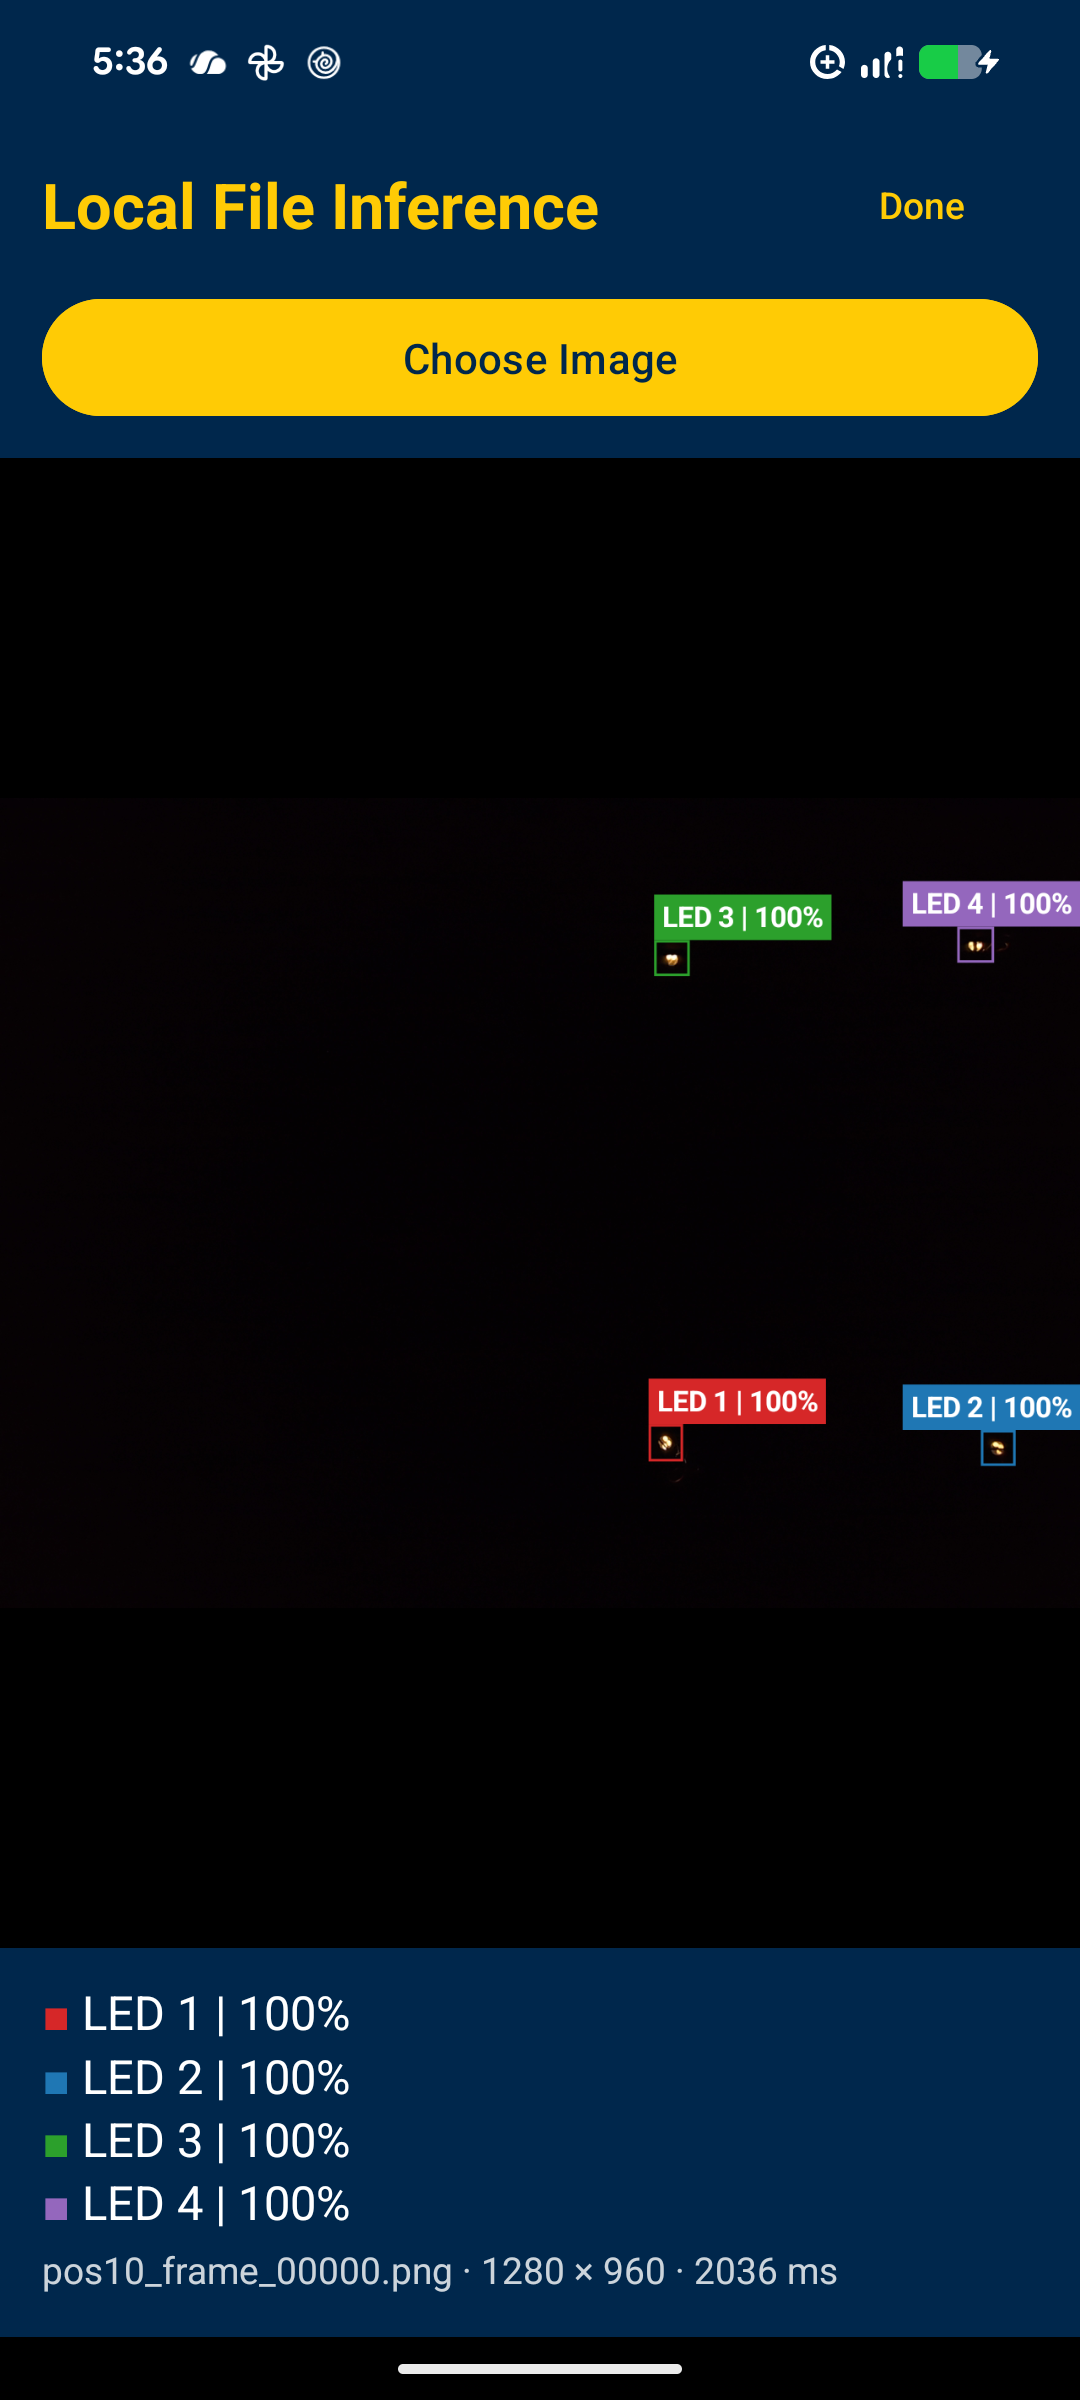
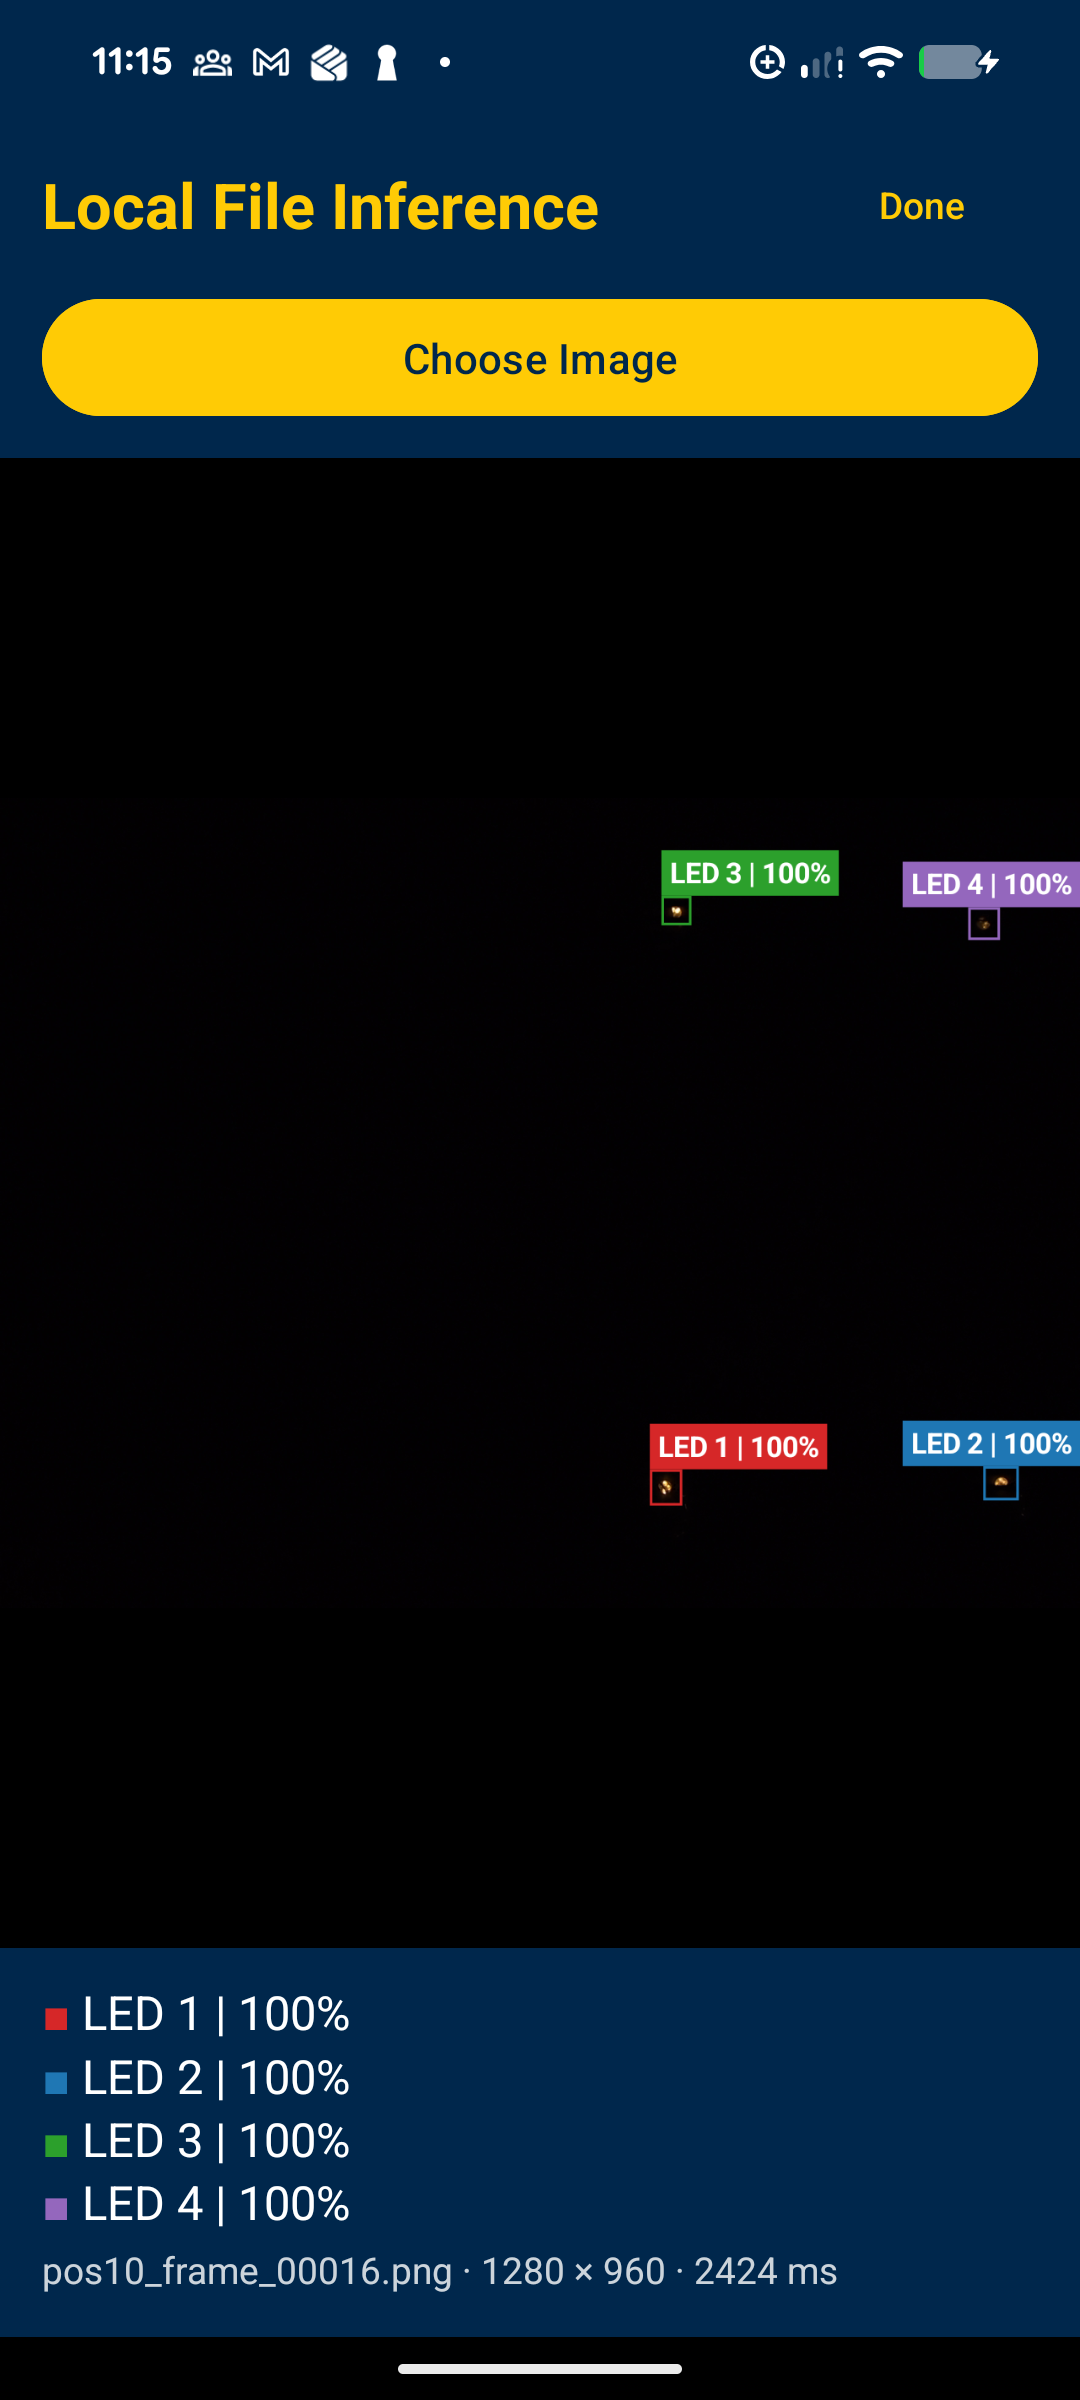
<DKA - November 17th 2026> {Retake the Local File Inference screenshot with the retrained models}
Screenshot 14 now shows version 1.2.1 on a test frame of the second session.
The README records the test it comes from: Local File Inference on eight test
frames on the Pixel 8a, all four LEDs named in each.

diff --git a/README.md b/README.md
@@ -270,10 +270,10 @@ This is the capture, LED-detection and LED-recognition workflow, not a full impl
 - Validate LED detection under the real LEDs: thresholds, the camera-reported row time and centroid repeatability have only been checked on simulated frames.
 - Add a settings screen for the detection thresholds and LED frequencies, a row-time calibration mode, and a live preview overlay of detected blobs. The document's `fingerprints.csv` (with per-LED counts and standard deviations) is not generated; `final.csv` carries the core fingerprint columns.
 - The on-device (instrumented) tests were updated for the new session layout but have not been run on a phone, except `LedRecognitionDeviceTest`, which runs both models on a test frame of the second session's dataset and passes on a Pixel 8a.
-- Try Inference Mode under the real LEDs. With version 1.2.0 on a Pixel 8a, Inference Mode ran on the live preview and through a 30-frame capture with its post-inference files and `final.csv` (30 of 30 frames saved), but with no LEDs in view, so only the detection model ran there, and Local File Inference named the four LEDs of a first-session test frame (screenshot 14 is from that version). With the models of this version only the device test has run on the phone: on a test frame of the second session, as one picture, as a series of frames, and through the path that writes a capture's post-inference files. Inference Mode and Local File Inference have not been opened with these models, and the boxes on the live preview have still not been seen on real LEDs. Their position on the preview was checked against a saved frame for the front camera only, in version 1.1.0.
+- Try Inference Mode under the real LEDs. With version 1.2.0 on a Pixel 8a, Inference Mode ran on the live preview and through a 30-frame capture with its post-inference files and `final.csv` (30 of 30 frames saved), but with no LEDs in view, so only the detection model ran there, and Local File Inference named the four LEDs of a first-session test frame. With the models of this version, Local File Inference was run on the phone on eight test frames of the second session, four from each test position: it named all four LEDs at 100% in every one, in about 2.4 s a frame (screenshot 14). The device test also passed, on a test frame of the second session: as one picture, as a series of frames, and through the path that writes a capture's post-inference files. Inference Mode has not been opened with these models, and the boxes on the live preview have still not been seen on real LEDs. Their position on the preview was checked against a saved frame for the front camera only, in version 1.1.0.
 - **FPS Rate** was tried on a Pixel 8a front camera at 1, 7, 15, 29 and 30 fps: the camera was ready at each and reported 1.000, 7.000, 14.998, 28.999 and 29.990 fps. Captures of 30 frames at 1 fps saved 30 of 30 frames in both modes. The rear camera and other phones were not tried.
 - On the 100 test frames of the second session's dataset, taken at two camera positions neither model was trained on, the app's rules find and name all 400 labelled LEDs, name none wrongly and put no box anywhere else. The same holds on its 300 validation frames (800 LEDs). On the test frames the detection model's lowest confidence is 84%, and the recognition model's lowest probability for a right name is above 99.9%. This was computed on a computer, with the two model files and the app's rules step for step; on the phone the same answers were confirmed for one of these frames.
-- On frames of the first session the same models find every LED but name LED 2 and LED 4 differently from that session's labels. Of its 200 test frames (800 LEDs), LED 1 and LED 3 are named right in all; the LED labelled LED 2 there is called LED 4 in 185 frames and left without a name in 15, and the LED labelled LED 4 is called LED 2 in 75 frames and left without a name in 125. Both sessions number the LEDs by their place on the rig, but the two right-hand LEDs carry each other's blink pattern in them: the thin dark band is at the bottom-right in the first session and at the top-right in the second. The test frames in **Pictures/Q-VLP Local Inference Test Dataset** are from the first session, so Local File Inference shows this on them.
+- On frames of the first session the same models find every LED but name LED 2 and LED 4 differently from that session's labels. Of its 200 test frames (800 LEDs), LED 1 and LED 3 are named right in all; the LED labelled LED 2 there is called LED 4 in 185 frames and left without a name in 15, and the LED labelled LED 4 is called LED 2 in 75 frames and left without a name in 125. Both sessions number the LEDs by their place on the rig, but the two right-hand LEDs carry each other's blink pattern in them: the thin dark band is at the bottom-right in the first session and at the top-right in the second. Local File Inference shows this on frames of the first session.
 - For LED 2 and LED 4 the recognition model does not go by the LED's place in the frame. The models of version 1.2.0, trained on the first session, called the second session's top-right LED "LED 2" in all 100 of its test frames, and the models of this version do the reverse on the first session's frames. It names an LED by what the LED itself shows: its blink pattern, its look, or both. These recordings cannot separate those, because it is not known whether the LEDs or only their signals changed places between the sessions.
 
 `final.csv`, replacing a position, LED detection and LED recognition with the two models are implemented. The CV algorithms behind **Enable CV Algorithms** are not, and no location estimates are produced in this version.
